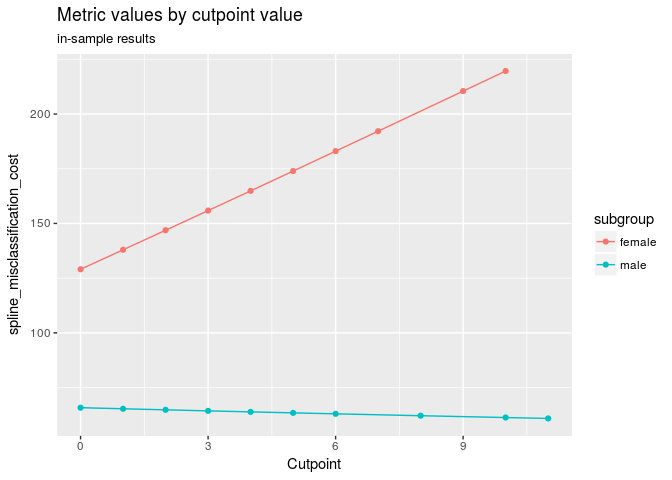
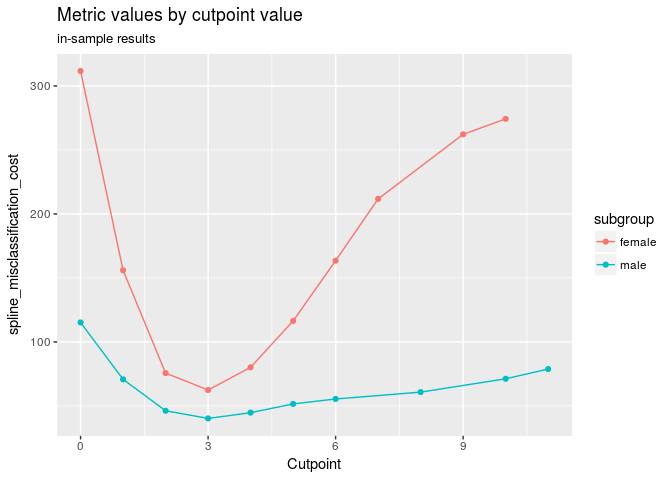
Fix the spline smoothing example

diff --git a/README.md b/README.md
@@ -604,7 +604,7 @@ Alternatively, the number of knots can be set manually and also the other smooth
 
 ``` r
 opt_cut <- cutpointr(suicide, dsi, suicide, gender, 
-                     method = minimize_spline_metric,
+                     method = minimize_spline_metric, spar = 0.4,
                      metric = misclassification_cost, cost_fp = 1, cost_fn = 10)
 #> Assuming the positive class is yes
 #> Assuming the positive class has higher x values
